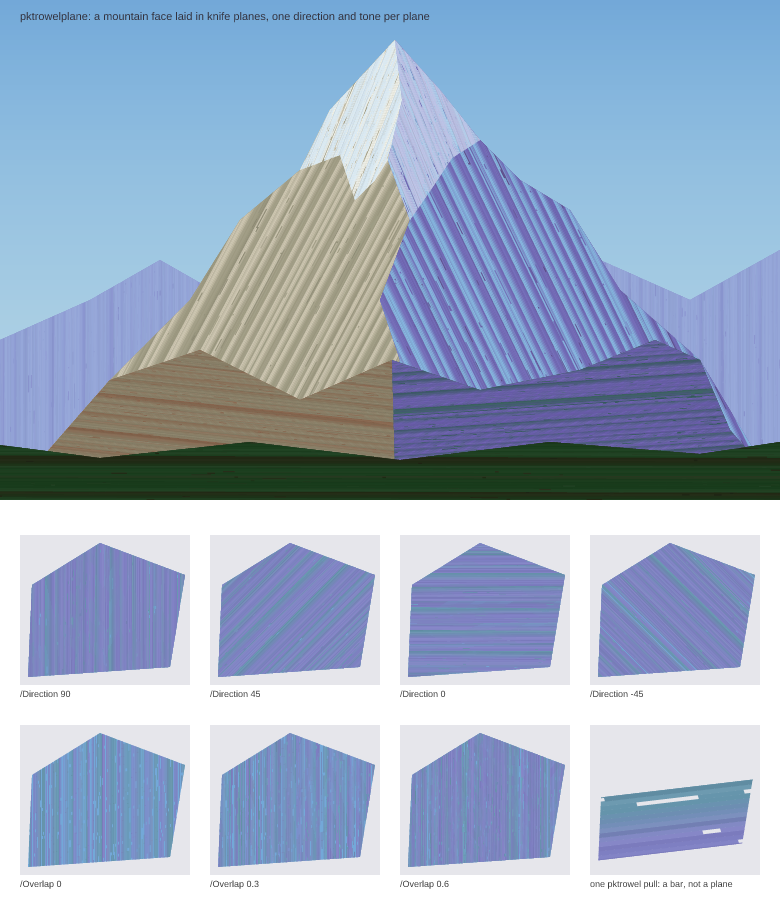
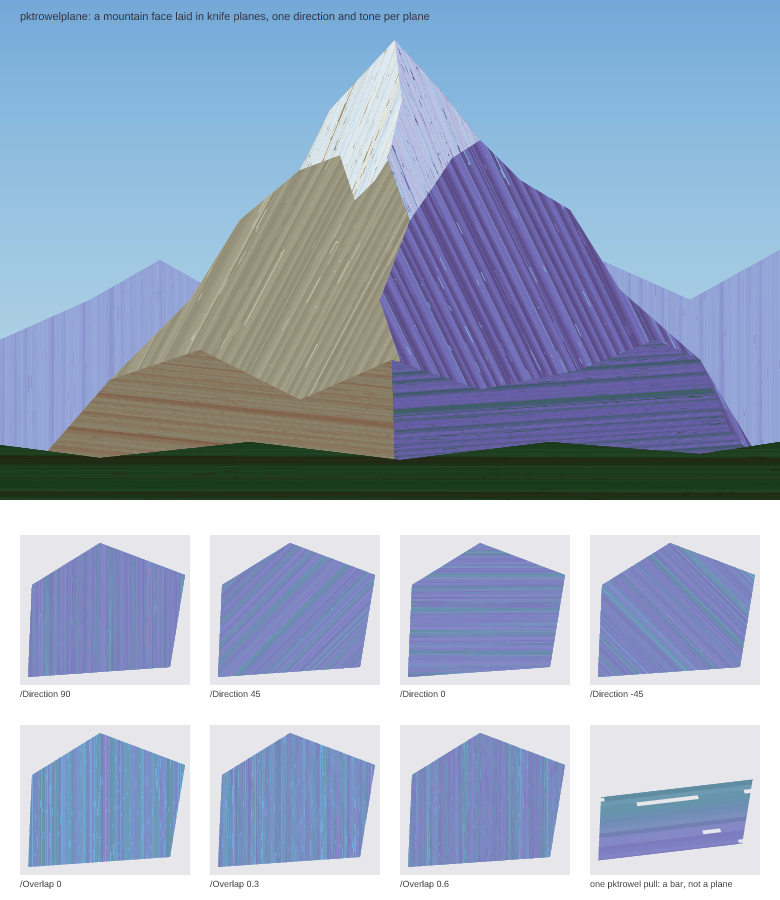
pktrowelplane: rows see /Light - /Direction, count the row budget before the clip (Codex round 1, #180)
Claude-Session: https://claude.ai/code/session_01GTbCLDB6QC7UV1i7qukUEL

Changed region(s): [[0.1846, 0.1556, 0.8923, 0.4356], [0.9231, 0.4356, 0.9538, 0.4978], [0.1538, 0.4044, 0.1846, 0.4356]]

diff --git a/tests/pktrowelplane.rs b/tests/pktrowelplane.rs
@@ -263,6 +263,85 @@ fn a_rotated_matrix_changes_nothing_about_the_edge() {
     );
 }
 
+/// Pixels that differ clearly between two renders.
+fn differing(a: &Interp, b: &Interp, w: u32, h: u32) -> usize {
+    let mut n = 0;
+    for y in 0..h {
+        for x in 0..w {
+            let (p, q) = (
+                a.gfx().pixmap.pixel(x, y).expect("in bounds"),
+                b.gfx().pixmap.pixel(x, y).expect("in bounds"),
+            );
+            let d = (p.red() as i32 - q.red() as i32).abs()
+                + (p.green() as i32 - q.green() as i32).abs()
+                + (p.blue() as i32 - q.blue() as i32).abs();
+            if d > 90 {
+                n += 1;
+            }
+        }
+    }
+    n
+}
+
+#[test]
+fn light_is_in_the_callers_space_not_the_rows() {
+    // The same facet drawn two ways: a plane at /Direction 90 with the light
+    // from 90 degrees, and the same plane built in a space rotated 90
+    // degrees, where it is /Direction 0 and /Light 0. They must agree. (If
+    // /Light were passed on unchanged, the first would see the light 90
+    // degrees from where it was asked, and the colours would sit on the
+    // wrong sides of the blade.)
+    let opts = "/Width 14 /Angle 0 /Coverage 1 /Scrape 0 /EdgeBuildup 0 /ColorJitter 0 \
+                /Colors [ [ 1 0 0 ] [ 0 0 1 ] ] /ColorMix 0";
+    let mut direct = fresh(100, 100);
+    run(
+        &mut direct,
+        &format!(
+            "3 srand newpath 10 10 moveto 90 10 lineto 40 85 lineto closepath \
+             << {opts} /Direction 90 /Light 90 >> pktrowelplane"
+        ),
+    );
+    let mut turned = fresh(100, 100);
+    run(
+        &mut turned,
+        &format!(
+            "3 srand gsave 90 rotate newpath 10 -10 moveto 10 -90 lineto 85 -40 lineto closepath \
+             << {opts} /Direction 0 /Light 0 >> pktrowelplane grestore"
+        ),
+    );
+    let n = differing(&direct, &turned, 100, 100);
+    assert!(n < 150, "{n} pixels differ between the two ways to say it");
+    // and a different light does change the picture, so the test can fail
+    let mut other = fresh(100, 100);
+    run(
+        &mut other,
+        &format!(
+            "3 srand newpath 10 10 moveto 90 10 lineto 40 85 lineto closepath \
+             << {opts} /Direction 90 /Light 0 >> pktrowelplane"
+        ),
+    );
+    assert!(
+        differing(&direct, &other, 100, 100) > 500,
+        "/Light made no difference"
+    );
+}
+
+#[test]
+fn a_row_past_the_deposit_budget_leaves_the_state_alone() {
+    let mut it = fresh(100, 100);
+    run(
+        &mut it,
+        "newpath 0 0 moveto 100000 0 lineto 100000 10 lineto 0 10 lineto closepath \
+         { << /Width 12 /Direction 0 >> pktrowelplane } stopped pop \
+         newpath 0 0 1 setrgbcolor 80 80 15 15 rectfill",
+    );
+    let p = it.gfx().pixmap.pixel(87, 12).expect("pixel");
+    assert!(
+        p.blue() > 200 && p.red() < 60,
+        "the facet's clip or a rotation was left behind"
+    );
+}
+
 #[test]
 fn a_scaled_matrix_scales_the_plane_with_it() {
     let mut it = fresh(100, 100);

diff --git a/notes/180-paintkit-palette-knife-plane.md b/notes/180-paintkit-palette-knife-plane.md
@@ -40,6 +40,15 @@ What was built (`lib/paintkit.ps`, right after `pktrowel`):
   the same call is repeated on the caller's path, which raises the same error
   again from a clean state (every guard precedes any drawing). The row count is compared as a real
   before `cvi`, so an area far past `cvi`'s range raises the plane's guard.
+- `/Light` is a direction in the caller's user space but the rows are drawn
+  in a space rotated by `/Direction`, so the rows get `/Light - /Direction`
+  (in a copy of the options dict; the caller's is untouched). Found by the
+  Codex review of the PR: passed on unchanged, the first colour sat on the
+  wrong side of the blade for most directions.
+- Error state: the first real row can still exceed `pktrowel`'s deposit budget
+  (a very long area). The plane counts that budget itself, on a row of the
+  longest length, before the clip and rotation (Codex review, round 1), and
+  raises `pktrowel-deposit-count-exceeds-safety-limit` from a clean state.
 - Safety: 4000 rows, counted before anything is drawn; each row is also
   bounded by `pktrowel`'s own budget.
 - Scratch prefix `tpl` (checked unused): `pktrowel` overwrites every `pt*` name
